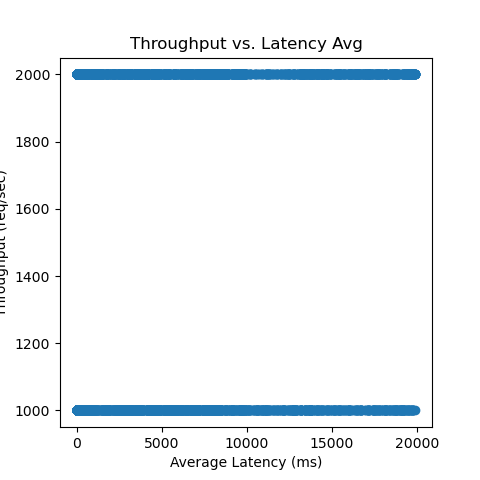
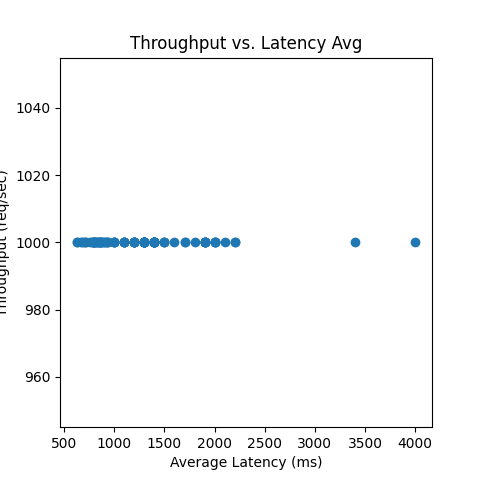
changed some things in run_plots and change the output file in run_perf

diff --git a/run_perf.py b/run_perf.py
@@ -116,17 +116,19 @@ def performance_analysis(runs, max_workers):
 def main():
     # check if the file exists, if it does, ignore runs for which the results already exist
     try:
-        results = pd.read_csv("performance_data.csv")
+        results = pd.read_csv("performance_datajbuhb.csv")
     except FileNotFoundError:
         results = pd.DataFrame(columns=['matsize', 'patterns_size', 'nb_patterns', 'duration', 'threads', 'connections', 'throughput', 'latency_avg', 'latency_stdev', 'latency_max', 'requests', 'data_read', 'requests_per_sec', 'transfer_per_sec'])
 
-    matsize = [8, 16, 32, 64, 128]
-    pattern_size = [8, 16, 32, 64, 128]   
-    pattern_count = [1, 2, 4, 8, 16] 
-    benchmark_duration = [10, 20]
-    thread_count = [1, 2, 4]
-    http_connections = [10, 100, 1000, 10000]
-    throughput = [1000, 2000]
+    matsize = [64]
+    pattern_size = [64]   
+    pattern_count = [10] 
+    benchmark_duration = [10]
+    thread_count = [1]
+    http_connections = []
+    for i in range(100, 10000, 100):
+        http_connections.append(i)
+    throughput = [1000]
     
     run_configs = []
     for m in matsize:
@@ -153,11 +155,11 @@ def main():
     if input("Start the performance analysis? (y/n): ").lower() != 'y':
         return
     
-    max_workers = 4  # Set the maximum number of concurrent threads
+    max_workers = 1   # Set the maximum number of concurrent threads
     performance_data = performance_analysis(run_configs, max_workers)
     
     new_results = pd.DataFrame(performance_data)
-    pd.concat([results, new_results], ignore_index=True).to_csv("performance_data.csv", index=False)
+    pd.concat([results, new_results], ignore_index=True).to_csv("performance_data_temp.csv", index=False)
     
 if __name__ == "__main__":
     main()

diff --git a/run_plots.py b/run_plots.py
@@ -2,7 +2,7 @@ import pandas as pd
 import matplotlib.pyplot as plt
 import numpy as np
 
-results = pd.read_csv("performance_data.csv")
+results = pd.read_csv("performance_data_temp.csv")
 result_count = len(results)
 print(f"Total number of results: {result_count}")
 
@@ -27,7 +27,44 @@ def get_data(*args):
 d1 = get_data(('connections', 1000), ('threads', 1), ('duration', 10), ('throughput', 2000))
 print(len(d1))
 
+temp = get_data(('threads', 1), ('duration', 10), ('throughput', 1000), ('patterns_size', 64), ('matsize', 64))
+print(len(d1))
 
+plt.clf()
+
+def list_fix(x, isSorted = False, factor = 1):
+    temp_list = list(x)
+    temp_list = [i*factor for i in temp_list]
+    if isSorted:
+        temp_list.sort()
+    return temp_list
+
+x = temp['connections']
+
+a = list_fix(temp['connections'], isSorted=True)[5::2]
+b = list_fix(temp['latency_avg'], factor=0.001)[5::2]
+c = list_fix(temp['latency_stdev'], factor=0.001)[5::2]
+print(a)
+
+fig, ax = plt.subplots()
+ax.errorbar(a, b, yerr=c, label='Latency (seconds)')
+plt.legend()
+plt.xlabel('Number of connections')
+plt.ylabel('Average latency (seconds)')
+plt.title('Average latency by number of connections')
+plt.savefig('hejsan')
+plt.show()
+plt.clf()
+
+'''
+# example data
+x = np.arange(0.1, 4, 0.5)
+y = np.exp(-x)
+
+fig, ax = plt.subplots()
+ax.errorbar(x, y, xerr=0.2, yerr=0.4)
+plt.savefig('hejsan')
+'''
 plt.matshow(results.corr())
 plt.xticks(range(len(results.columns)), results.columns, rotation='vertical')
 plt.yticks(range(len(results.columns)), results.columns)
